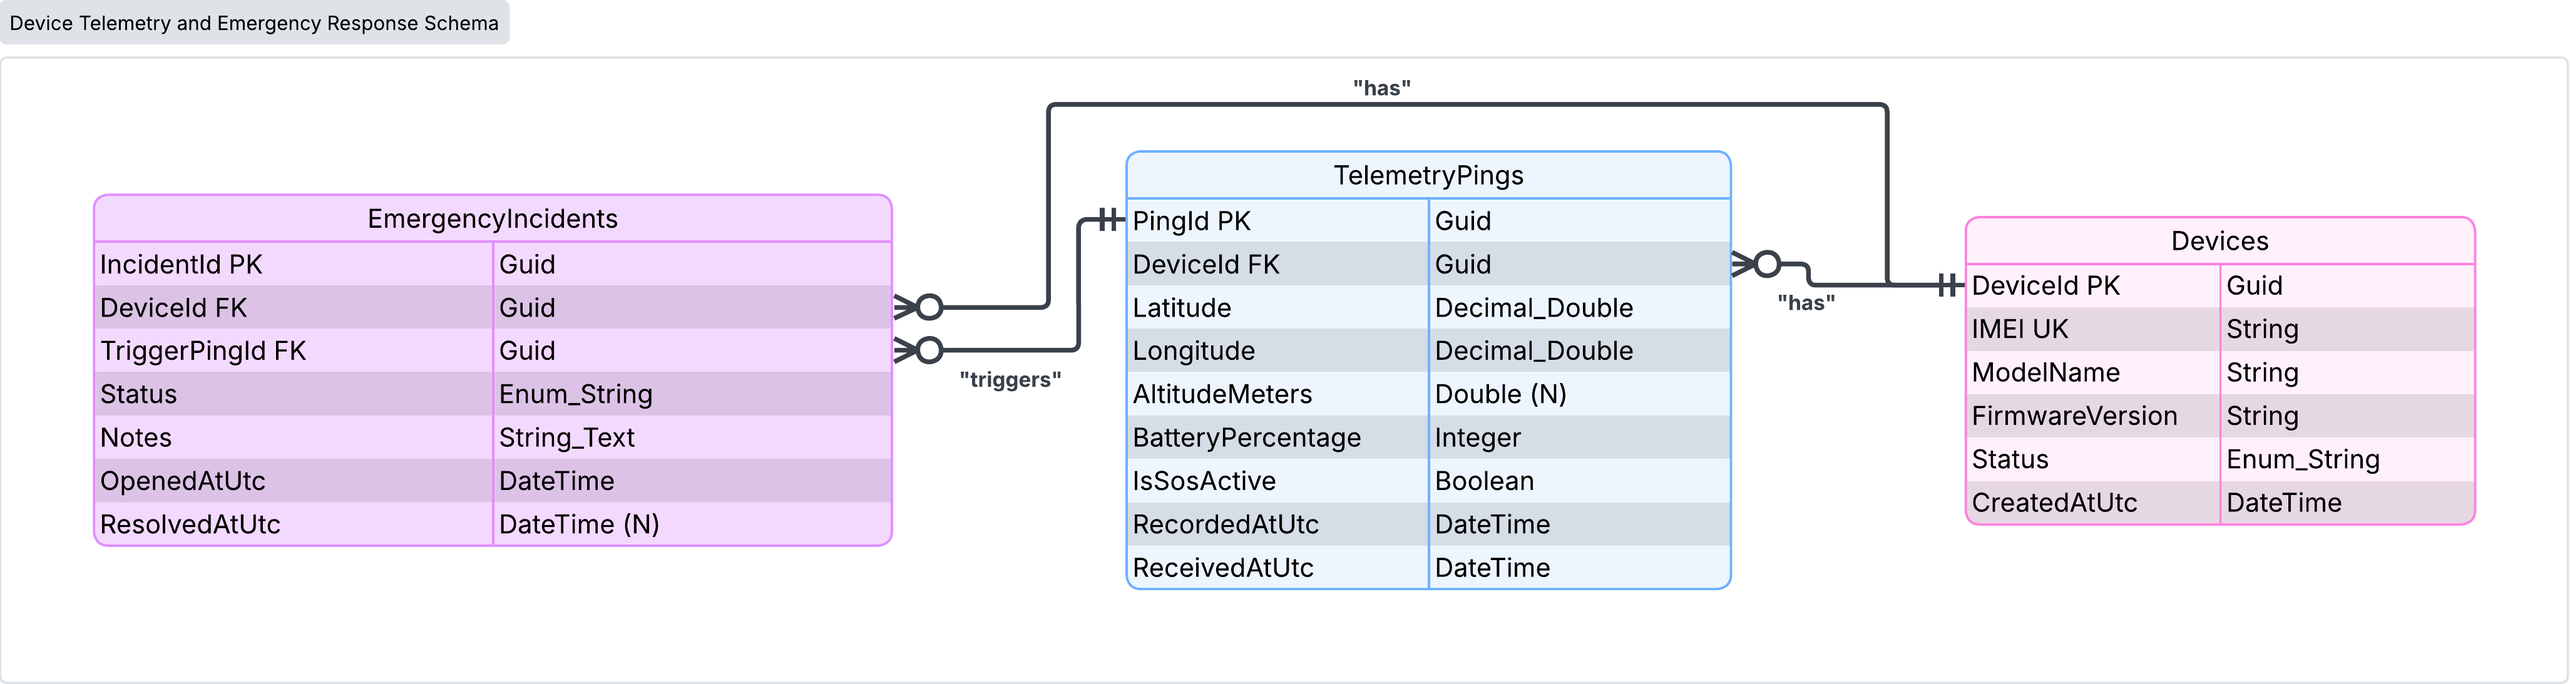
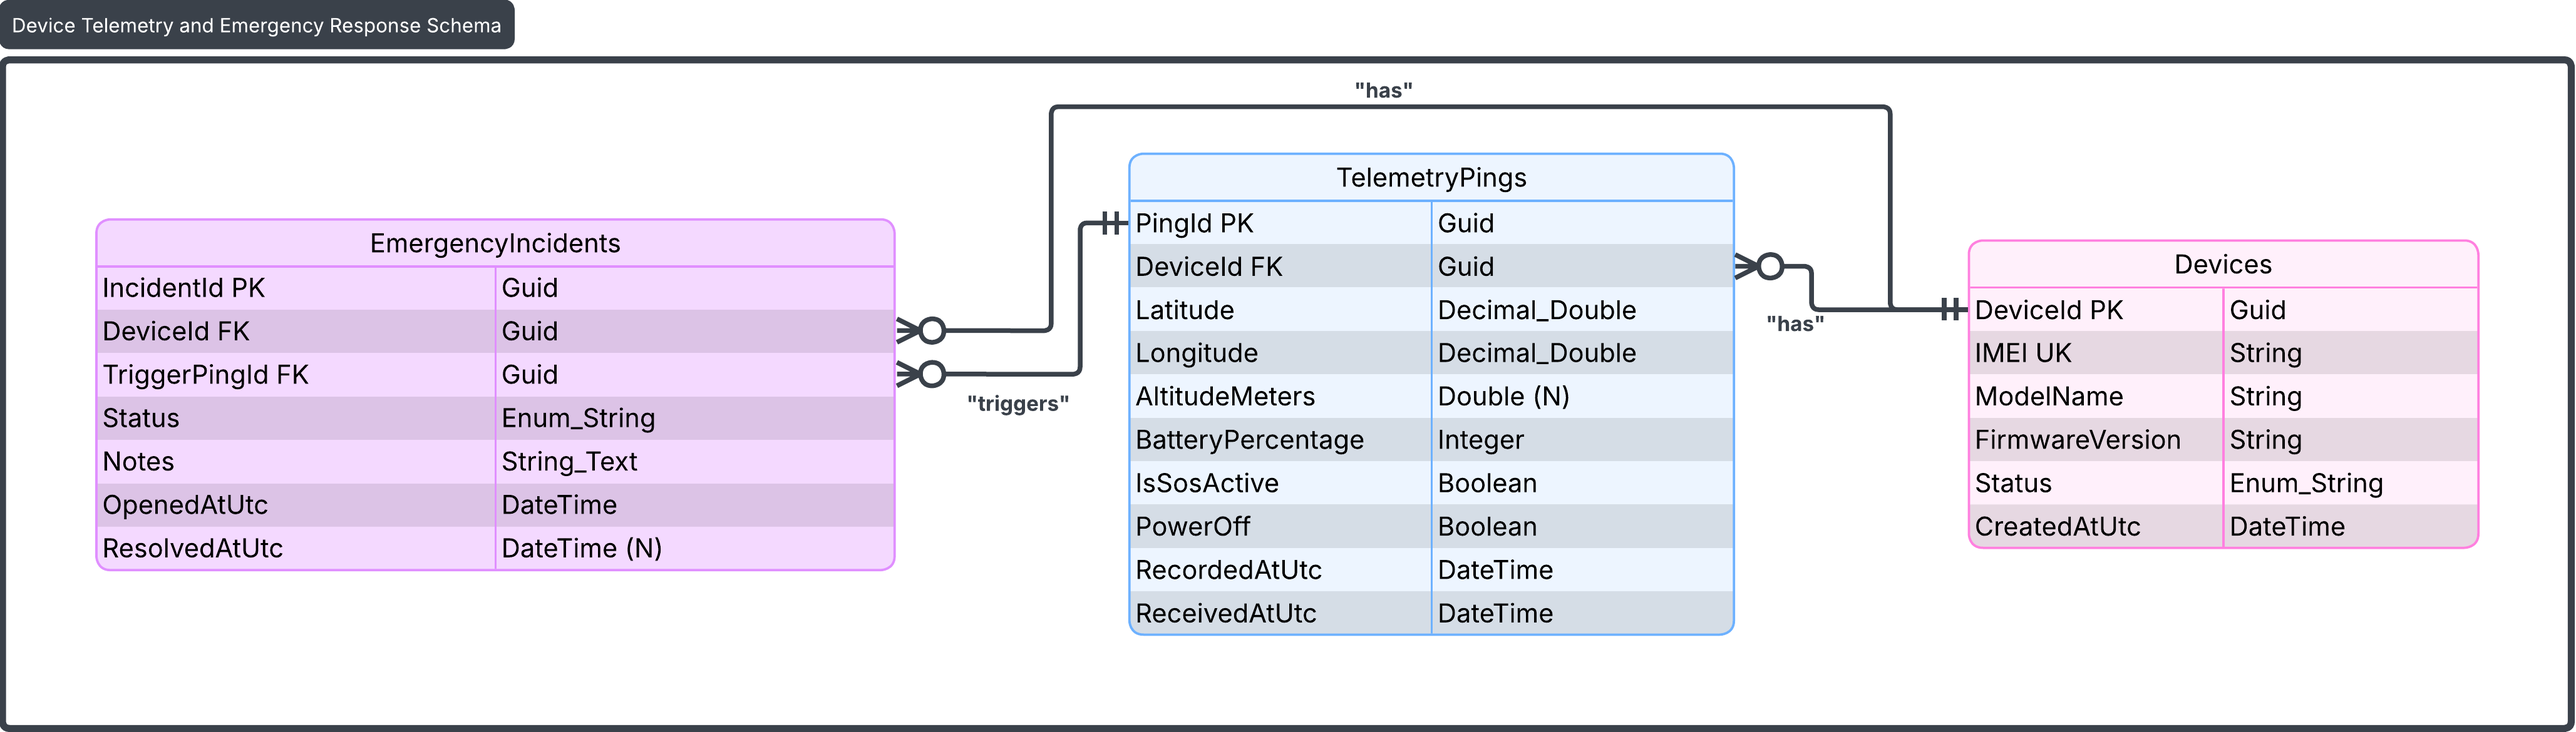
Updated PLAN

diff --git a/docs/PLAN.md b/docs/PLAN.md
@@ -12,9 +12,9 @@ The tracking service stores the location data on a server, where it can easily b
 
 ### Core Components 
 The project should consist of the following components: 
-* A Backend Receiver and Processor: This service will receive incoming satellite signals. It will feature message validation, and SOS processing. It should be able to handle a large amount of incoming signals without impeding other functionality. 
-* A Frontend Monitoring Dashboard: This React app will show the satellite signals on a convenient dashboard. In case of an emergency, it should provide response options. 
-* A Relational Database: This will record satellite signals, devices, and ongoing emergencies. 
+* A Backend Receiver and Processor: This service will receive incoming satellite-relayed messages. It will feature message validation, and SOS processing. It should be able to handle a large amount of incoming signals without impeding other functionality. 
+* A Frontend Monitoring Dashboard: This React app will show the satellite-relayed messages on a convenient dashboard. In case of an emergency, it should provide response options. 
+* A Relational Database: This will record satellite-relayed messages, devices, and ongoing emergencies. 
 * Cloud platform hosting: The backend and database must be hosted, and operate on a cloud platform. This cloud platform should be configured using Tarraform.
 
 The project would need a number of GPS devices signaling to the receiver, but that is unrealistic. Instead a microservice, run by the backend will simulate these signals. 
@@ -24,20 +24,25 @@ The project would need a number of GPS devices signaling to the receiver, but th
 * Realistic GPS locations are of no concern. 
 * A realistic system would work over a long time span, and process tens of thousands of signals per hour. For demonstration purposes this system will process much fewer signals and over a shorter period of time. 
 * The project will not attempt to interact with actual satellites. The project scope assumes that satellite messages are delivered to the server via a webhook. 
+* The project assumes that the technology supporting the app will be stable and functional. 
 
 ## 🛠 Architecture & Tech Stack
 ### System Architecture
 ![](images/DataFlowChart.png)
+
 ### Backend Server
 * The backend framework will be .NET 10 and an ASP.NET Core Web API.
 * Real time web functionality will be done through SignalR. 
+
 #### Satellite Worker
 The worker is a hosted service running in the background of the app. It simulates a number of explorers, using devices out in the world. Each explorer has a location, speed, battery life, SOS state, and flags to dictate behavior. The explorer will move around, while decreasing their battery life. There will be two things the explorer can do: 
 * Deactivate their device, indicating the end of an adventure and no more need of service. 
 * Send an SOS, indicating the need for assistance. 
 Both of these actions are communicated via a HTTP webhook in the API. 
+
 #### API
 The API will use system threading to asynchronously handle incoming requests. 
+
 #### Signal Processing and SOS Evaluation
 When a signal is received it is first added to the TelemetryPings table, and if the device is unknown, it is also added to the Devices table. Signal Processing checks for two situations: If an Emergency Incident needs to be created and if a device needs to be activated or deactivated. 
 
@@ -45,13 +50,16 @@ When a device reports telemetry data, a device is set to active. This indicates 
 
 If a signal comes in reporting an SOS. This indicates that the device user has asked for help. If a signal comes in reporting an SOS, the system first checks if there is already an Emergency Incident in progress. If not, it creates a new incident. It is important to note that if a signal comes in, not reporting an SOS, while an active Emergency Incident exists, the incident is not affected. Users cannot "undo" an SOS signal, in the same way they can't un-call 911 or un-pull a fire alarm. 
 
-If an Incident is created, the proper entry is added to the database table and the UI is immediately updated. Note that incidents are only resolved via a button on the dashboard.
+If an Incident is created, the proper entry is added to the database table and the UI is immediately updated. Note that incidents are only resolved via a button on the dashboard. 
+
+Since signals arrive asynchronously, signal processing also has to be asychronous. Signal processing is done by a Telemetry Worker. When the worker needs to touch the database it enters a thread safe queue which organizes threads when accessing the database. 
+
 ### Database
 Entity Relationship Diagram (ERD)
 ![](images/DatabaseSchema.png)
 * The database will be made in PostgreSQL and managed with Entity Framework Core.
-#### Devices Table
 
+#### Devices Table
 | Column Name | Data Type | Constraints / Attributes | Description |
 | :--- | :--- | :--- | :--- |
 | **DeviceId** | Guid | Primary Key, Non-null | Unique internal identifier for the device. |
@@ -62,7 +70,6 @@ Entity Relationship Diagram (ERD)
 | **CreatedAtUtc** | DateTime | Non-null | UTC timestamp when the device was registered. |
 
 #### TelemetryPings Table
-
 | Column Name | Data Type | Constraints / Attributes | Description |
 | :--- | :--- | :--- | :--- |
 | **PingId** | Guid | Primary Key, Non-null | Unique identifier for the telemetry entry. |
@@ -77,7 +84,6 @@ Entity Relationship Diagram (ERD)
 | **ReceivedAtUtc** | DateTime | Non-null | UTC timestamp recorded when the server processed the request. |
 
 #### EmergencyIncidents Table
-
 | Column Name | Data Type | Constraints / Attributes | Description |
 | :--- | :--- | :--- | :--- |
 | **IncidentId** | Guid | Primary Key, Non-null | Unique identifier for the emergency ticket. |
@@ -87,11 +93,15 @@ Entity Relationship Diagram (ERD)
 | **Notes** | String | Text / Unlimited | Operator logs and dispatch notes recorded during response coordination. |
 | **OpenedAtUtc** | DateTime | Non-null | UTC timestamp when the emergency was registered. |
 | **ResolvedAtUtc** | DateTime | Nullable | UTC timestamp when the incident was marked resolved. | 
+
+* Should have a Postgres partial unique index allowing for only one non-resolved incident per DeviceId 
+
 ### Frontend Dashboard
 Entity Relationship Diagram (ERD)
 ![](images/FrontendWireframe.jpg)
 * The frontend is written in React and uses TypeScript for type safety. 
 * State management and data fetching will be done with React Query. 
+
 #### Header & Branding Bar
 The top bar running across the dashboard. Establishes application branding (PulseAlert) and displays global navigation or quick status indicators.
 
@@ -141,7 +151,7 @@ This panel also includes a "Resolve All Incidents" button, which resolves all cu
     * Create a clean layer structure: Core (domain models/interfaces), Infrastructure (EF Core/DB context), API (controllers/endpoints).
   * Design EF Core Data Model:
     * Device: Device ID, model, status.
-    * TelemetryPing: GPS coordinates (lat/long/altitude), battery level, timestamp, payload JSON.
+    * TelemetryPing: GPS coordinates (lat/long/altitude), battery level, timestamp.
     * EmergencyIncident: Status (Active, Resolved), timestamp.
   * Database Setup:
     * Configure EF Core migrations with PostgreSQL.
@@ -149,7 +159,6 @@ This panel also includes a "Resolve All Incidents" button, which resolves all cu
   * **Goal:** Build the engine that simulates and processes incoming satellite data.
   * Satellite Ingestion Endpoint:
     * Build a POST /api/telemetry controller endpoint that accepts incoming GPS pings.
-    * Add simple validation (checking for corrupted data or duplicate pings).
   * Channel / In-Memory Queue:
     * Use .NET System.Threading.Channels to handle incoming pings asynchronously without blocking HTTP requests.
   * Background Worker (IHostedService):
@@ -159,11 +168,14 @@ This panel also includes a "Resolve All Incidents" button, which resolves all cu
 * Phase 3: Simple Monitoring Endpoint / Dashboard
   * **Goal:** Provide visibility into system metrics.
   * API Telemetry Status Endpoint:
-    * GET /api/metrics: Returns total pings processed per minute, queue depth, and active SOS count.
+    * GET /api/dashboard: Returns total pings processed per minute, queue depth, and active SOS count.
   * Lightweight React / TypeScript Front End:
     * A 1-page dashboard using React and TypeScript displaying:
-      * Live metrics counters.
-      * A explorer 
+      * Live metrics counters 
+      * A detailed device view 
+      * A list of active emergencies 
+      * A live stream of incomming telemetry pings 
+      * A demo control panel
 * Phase 4: Infrastructure as Code (Terraform)
   * **Goal:** Use Terraform in order to manage a cloud deployment.
   * Create terraform/ Directory:
@@ -180,8 +192,11 @@ This panel also includes a "Resolve All Incidents" button, which resolves all cu
     * Write a clear overview explaining:
       * Decisions made.
       * Instructions to run locally via dotnet run.
-* Phase 6: Additional features
+* Phase 6: Leaving the Project Scope
   * **Goal:** Implement stretch goals
-  * Front End Map
-  * Deadman's Switch
-  * More Impressive Explorer
+  * Front End Map - A map on the device focus view to see where the device is.
+  * Deadman's Switch - A background process which creates an emergency if a device suddenly stops sending pings. 
+  * A More Impressive Explorer - Something with more meaningful locations and more interesting behaviors. 
+  * Crash Resistance and Recovery - Making the system more stable in case of platform instability. 
+  * Simple Validation - Checking for corrupted data or duplicate pings. 
+  * A more interesting incident resolution process 
